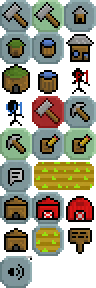
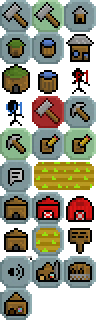
Updated berry color, added Jack's witch, added stable/bakery/tailor, moved bakery to lvl 3

diff --git a/build.js b/build.js
@@ -21,6 +21,9 @@ const buildButtonImages = {
     "witch hut":        buildingTileset.getTile(0, 6),
     "farm":             buildingTileset.getTile(1, 7),
     "barn":             buildingTileset.getTile(1, 6),
+    "bakery":           buildingTileset.getTile(1, 8),
+    "stable":           buildingTileset.getTile(2, 8),
+    "tailor":           buildingTileset.getTile(0, 9),
     "__":               buildingTileset.getTile(0, 0),
     demolishBuilding:   buildingTileset.getTile(1, 3),
 }
@@ -71,6 +74,27 @@ const buildings = {
         collisionArgs: [6, 18, 54, 40],
         image: buildingTileset.getTile(2, 6),
         cost: { wood: 20, stone: 5 },
+        unlocked: false,
+    },
+    "bakery":  {
+        collisionShape: gameify.shapes.Rectangle,
+        collisionArgs: [6, 18, 54, 40],
+        image: buildingTileset.getTile(1, 8),
+        cost: { wood: 15, stone: 25 },
+        unlocked: false,
+    },
+    "stable":  {
+        collisionShape: gameify.shapes.Rectangle,
+        collisionArgs: [6, 18, 54, 40],
+        image: buildingTileset.getTile(2, 8),
+        cost: { wood: 40, stone: 5, gold: 2 },
+        unlocked: false,
+    },
+    "tailor":  {
+        collisionShape: gameify.shapes.Rectangle,
+        collisionArgs: [6, 18, 54, 40],
+        image: buildingTileset.getTile(0, 9),
+        cost: { wood: 10, stone: 10, gold: 10 },
         unlocked: false,
     },
     "__": {

diff --git a/levelProgress.js b/levelProgress.js
@@ -152,7 +152,7 @@ const levels = [{
 }, {
     name: 'Growing village',
     villagers: 4,
-    buildings: ["barn"],
+    buildings: ["barn", "bakery"],
     mapAreas: ["desert"],
     requirements: [{
         goal: goals.build["house"],
@@ -179,7 +179,7 @@ const levels = [{
 }, {
     name: 'small town',
     villagers: 4,
-    buildings: [/*"bakery", "stable", "tailor"*/],
+    buildings: ["stable", "tailor"],
     mapAreas: ["tundra"],
     requirements: [{
         goal: goals.build["house"],

diff --git a/villagers.js b/villagers.js
@@ -2,7 +2,7 @@ import { dialogue } from './dialogue.js';
 import { gameify } from './gameify/gameify.js';
 import { levelProgress } from './levelProgress.js';
 
-const villagerTileset = new gameify.Tileset("images/villagers.png", 32, 32);
+const villagerTileset = new gameify.Tileset("images/villagers.png", 32, 48);
 const witchImage = villagerTileset.getTile(0, 0);
 
 const popupImage = new gameify.Image('images/e_talk_popup.png');
